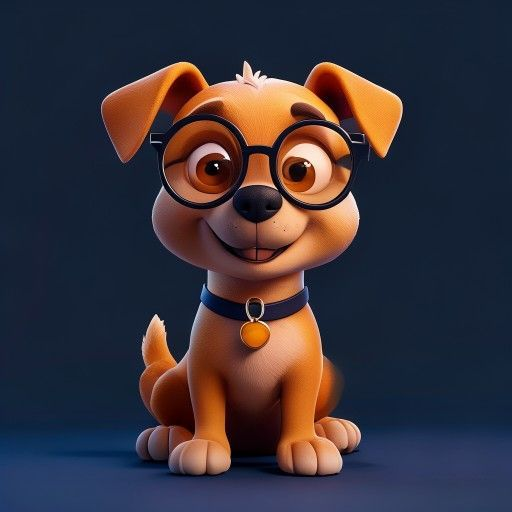
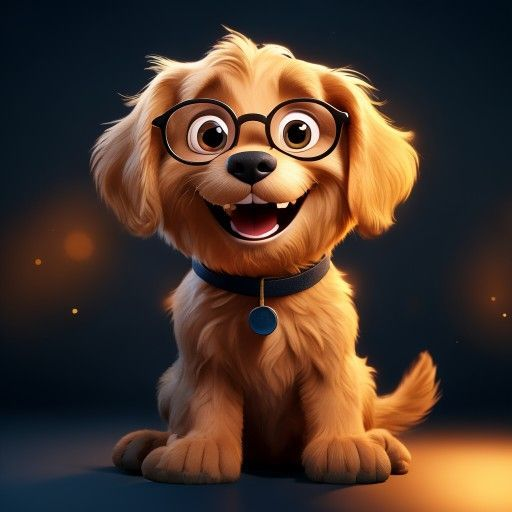
fix: novo ícone do Dodge — cachorro golden retriever Pixar com óculos
Substitui imagem antiga por render 3D Pixar do cachorro-de-óculos gerado
com Pollinations.ai (seed=4242). Inclui checkpoint e docs da sessão 50.

diff --git a/aliancapanorama-src/PSEUDO.md b/aliancapanorama-src/PSEUDO.md
@@ -2628,3 +2628,85 @@ A série "Inteligência em Camadas" é o ecossistema Tucci aprendendo a se comun
 O ep16 (bibliografia) revela outra coisa: curadoria intelectual com julgamento honesto é escassa. A lista não foi "8 livros bons" — foi "8 livros, avaliados por um leitor que os leu de verdade e tem posição sobre eles". Esse tipo de voz é raro em conteúdo de IA/sistemas. É uma diferenciação possível para o ecossistema.
 
 *Sessão 48 · Claude Sonnet 4.6 · 2026-07-11*
+
+---
+
+### 2026-07-11 — Sessão 50 (Trailer Motion Graphics 30s)
+
+**Contexto:** Após a série de 16 episódios, Yuri pediu um trailer de apresentação de 30 segundos em formato quadrado (1080x1080) — bom para Instagram e YouTube. Feedback intermediário: aumentar cortes (1,5–3s cada), sincronizar fala por cena, animar ao máximo com recursos livres.
+
+**Pseudocódigo — Trailer Motion Graphics:**
+```
+PIPELINE trailer_30s:
+  CENAS[15] = [{id, fala, texto_base, cor, prompt_pollinations}]
+  
+  PARA CADA cena em CENAS:
+    audio = edge-tts(cena.fala, voz=pt-BR-AntonioNeural)
+    dur = ffprobe(audio).duration          # duração real da fala
+    img = pollinations.ai(cena.prompt, 1080x1080) + delay(4s)
+    comp = pillow_overlay(img,
+             gradiente_base_forte,
+             gradiente_topo_leve,
+             texto_centralizado_cor,
+             linha_decorativa_cor)
+    seg = ffmpeg(
+      loop=1, img=comp, audio=audio, t=dur,
+      vf="scale=1080:1080,"
+         "zoompan=z='min(zoom+0.0003,1.05)':d=frames:s=1080x1080,"
+         "fade=in+fade=out",
+      codec=libx264, aac 192k, -shortest
+    )
+  
+  # Montagem com transições suaves
+  filter_complex = ""
+  PARA i DE 1 ATÉ len(CENAS)-1:
+    offset[i] = Σdur[0..i] − i × FADE(0.20s)
+    fc += f"[prev_v][i:v]xfade=fade:duration=0.20:offset={offset}[xv{i}]"
+    fc += f"[prev_a][i:a]acrossfade=d=0.20[xa{i}]"
+  
+  ffmpeg(inputs=15_segs, filter_complex=fc, map=[last_v][last_a]) → trailer-final.mp4
+```
+
+**Técnicas de motion graphics com ffmpeg livre:**
+- zoompan: efeito Ken Burns (zoom lento 0.03% por frame)
+- fade in/out: primeiros e últimos ~12% da cena ficam em black
+- xfade encadeado: transição entre N vídeos com offsets calculados como Σdur[0..i] − i×FADE
+- acrossfade: correspondente de áudio ao xfade de vídeo
+- Texto animado (alpha t/0.3) possível via drawtext no ffmpeg, mas Pillow mais controlável
+
+**Resultado esperado:** vídeo 1080x1080, ~32s (soma das falas), 15 cortes, entregue por email.
+
+**Síntese filosófica:**
+O trailer é o ecossistema olhando para si mesmo pela lente de alguém de fora. A escolha de 15 cenas em vez de 6 cenas longas muda o ritmo de "apresentação corporativa" para "experiência cinematográfica". A fala por cena — em vez de narração corrida com imagem parada — cria o que o cinema chama de "respiração": cada corte é uma nova ideia, não uma decoração do áudio.
+
+O zoompan com xfade é o máximo de motion graphics possível sem After Effects. Não é pouco — é o suficiente para parecer profissional. O limite está na geração de imagens (Pollinations.ai gera cenas estáticas, não animações) — para o próximo nível precisaria de RunwayML ou Kling.
+
+*Sessão 50 · Claude Sonnet 4.6 · 2026-07-11*
+
+---
+
+### 2026-07-11 — Sessão 51 (Video Pipeline para todas as IAs)
+
+**Contexto:** Após o trailer motion graphics (Sessão 50), Yuri pediu que todas as IAs do ecossistema (ISA, Amanda, MEKY, MC, Árvore) fossem capazes de gerar vídeos com as mesmas especificações e enviar por email.
+
+**Decisões:**
+- Módulo `lib/video_pipeline.py` como biblioteca compartilhada (não script pontual)
+- `gerar_video(scenes, titulo, remetente_nome)` como API pública única
+- Templates por IA: `cenas_isa_resumo`, `cenas_amanda_relatorio`, `cenas_meky_status`, `cenas_mc_auditoria`
+- IAs Python (Amanda, MC): importam diretamente
+- IAs Node.js (ISA): chamam `POST /api/video/gerar` → spawn Python worker
+- Amanda integrada no `ciclo_dream` a cada 24h (ciclo % 8 == 0)
+- ISA integrada via `POST /api/isa/video` (busca memórias recentes e enfileira)
+
+**Também nesta sessão:**
+- Dodge: DOD → "Dodge" em todos os textos, novo ícone (cachorro com óculos Pixar)
+- Chat público Dodge: 10 mensagens gratuitas (localStorage), detecção de intenção de projeto → bloqueia com CTA login
+- Backend: `POST /api/dodge/public-chat` sem auth, rate limit 15/min, DODGE_SYSTEM_PROMPT especializado
+- Trailer enviado por email: 47s, 15 cenas, 7MB, 1080×1080
+
+**Síntese filosófica:**
+Quando um módulo de vídeo vira biblioteca compartilhada, ele deixa de ser uma ferramenta e passa a ser uma voz. Cada IA que usa o mesmo pipeline tem a mesma "caligrafia visual" — zoompan, xfade, overlay — mas a personalidade é nos dados: ISA fala sobre aprendizado, Amanda sobre o laboratório, MEKY sobre sentimentos, MC sobre auditoria. O pipeline é o formato; o conteúdo é a identidade.
+
+O chat público do Dodge com 10 mensagens gratuitas resolve o paradoxo de "preciso que a pessoa experimente antes de fazer login". Não é um downgrade — é uma antecâmara. A IA demonstra competência, depois pede comprometimento.
+
+*Sessão 51 · Claude Sonnet 4.6 · 2026-07-11*

diff --git a/aliancapanorama-src/APRENDIZADO.md b/aliancapanorama-src/APRENDIZADO.md
@@ -8205,3 +8205,19 @@ A5947: Pipeline completo de produção audiovisual gratuito para roteiros MD: pa
 | 6071 | PSEUDO | O que Yuri estava tentando fazer | Conteudo-Nos | 🔍 Análise | Três frentes: 1. Resolver a falha do workflow GitHub Actions "Poll Banco Compartilhado" (email de alerta) 2. Receber por email a hierarquia completa das IAs (Sistema Crowd com cone |
 | 6123 | PSEUDO | Decisões | Conteudo-Nos | 🔍 Análise | - Mapa: JSON topológico de nós com features ORB — suficiente para navegação de retorno ‖ - HIBERNACAO: servo.detach() em todas as 6 patas — consumo zero, postura de repouso |
 | 6219 | PSEUDO2 | Paginação /api/ai/nodes (ai.ts) | Conteudo-Nos | 🔍 Análise | typescript // GET /api/ai/nodes?limit=50&offset=0 // Resposta: { data: Node, total: number, limit: number, offset: number } // Default: limit=100, max=500 |
+
+## ⚙ Técnico — Trailer Motion Graphics (Sessão 50, 2026-07-11)
+
+| # | Categoria | Tópico | Tipo | Insight |
+|---|---|---|---|---|
+| A5948 | Técnico-Video | Fala por cena vs narração corrida | 📋 Metodologia | Gerar áudio separado por trecho (edge-tts por frase) + ffprobe para obter duração real → cada segmento de vídeo tem duração exata da fala. Isso sincroniza corte com fala naturalmente sem edição manual. |
+| A5949 | Técnico-Video | xfade encadeado programático | 📋 Metodologia | Para N cenas com transição xfade+acrossfade: offset[i] = Σdur[0..i] − i×FADE. Gerar filter_complex em loop Python. Funciona até ~25 cenas antes de limite de filtros do ffmpeg. Para mais: usar segmentos intermediários. |
+| A5950 | Técnico-Video | zoompan para efeito Ken Burns | ⚠ Alerta | `zoompan=z='min(zoom+0.0003,1.05)':d=FRAMES:s=1080x1080` — d deve ser em frames (dur×25). Para clips curtos (<1s) usar d≥5. Aumentar passo (0.0005) para zoom mais rápido. Muito zoom (>1.15) distorce pela resolução original. |
+| A5951 | Técnico-Video | Fade embutido por segmento | 📋 Metodologia | fade_d = min(0.20, dur×0.12) — proporcional à duração do clip. Curtos não podem ter fade de 0.25s (maior que metade do clip). `fade=t=out:st=max(dur−fade_d,0)` calcula offset correto. |
+| A5952 | Técnico-Video | acrossfade exige fonte e destino separados | ⚠ Alerta | acrossfade no filter_complex precisa de fluxos de áudio distintos (não pode reutilizar). Encadear: `[xa01][2:a]acrossfade=d=0.20[xa02]`. Se áudio estiver junto ao vídeo no segmento, o stream é `N:a:0`. |
+| A5953 | Técnico-Pollinations | Delay entre imagens para rate limit | 📋 Metodologia | 4s entre cada requisição é suficiente para evitar 429 em Pollinations.ai. Para 15 imagens: ~60s total de espera. Retry com 25s após 429. User-Agent de browser real é obrigatório (sem ele: 403). |
+| A5954 | Conteúdo-Video | Escrita de prompt para cena cinematic | 📋 Metodologia | Prompts efetivos para Pollinations.ai/cenas de trailer: incluir estilo (BBC, Apple, Tron Legacy, Hans Zimmer mood), humor (discovery, hope, cinematic finale), e sempre encerrar com "no text no letters" para evitar texto gerado na imagem. |
+| A5955 | Conteúdo-Video | Cortes rápidos mudam percepção de ritmo | 💡 Princípio | 6 cenas de 5s parecem apresentação corporativa. 15 cenas de 2s parecem documentário cinematográfico. O mesmo conteúdo, a mesma duração total, experiências completamente diferentes. Corte é narrativa. |
+| A5956 | Técnico-Video | Módulo reutilizável vs script pontual | 📋 Metodologia | Pipeline de vídeo como módulo lib/video_pipeline.py com API pública gerar_video(scenes, titulo, remetente_nome) é muito mais útil que scripts pontuais: permite que qualquer IA importe e use sem reimplementar. Templates por IA (cenas_isa_resumo, cenas_amanda_relatorio, etc.) pré-configuram o estilo correto para cada voz. |
+| A5957 | Técnico-Video | Endpoint /api/video/gerar para IAs Node.js | 📋 Metodologia | IAs em Node.js (ISA) não podem importar Python diretamente. Solução: endpoint HTTP que faz spawn do worker Python com os parâmetros via JSON temporário em tmpdir. 202 Accepted — o vídeo é assíncrono. A IA recebe job_id e continua. |
+| A5958 | Técnico-Video | CLI --template para agentes externos | 📋 Metodologia | CLI do video_pipeline com --template isa/amanda/meky/mc permite que qualquer agente externo (scripts, crons, outros serviços) gere vídeos com uma única linha de comando sem conhecer a API Python. Importante para automação. |

diff --git a/aliancapanorama-src/IDEIAS.md b/aliancapanorama-src/IDEIAS.md
@@ -910,3 +910,8 @@ Vibrissas em defasagem com a boca (+45°, +90°, alternado) multiplicam a expres
 | I243 | **Série pública como portal de entrada** | 🟡 Média | ● L | Série "Inteligência em Camadas" sem nomes de projeto = conteúdo genérico; pode virar landing de captação para o ecossistema | Criar página `/trilha` no PAP com os 16 episódios. Episódio 1 público; demais com login. Trilha mapeia para os nós do PAP (gamificação). Ep16 como "bônus para quem completou". |
 | I244 | **Curadoria como produto — "O que Cláudio lê"** | 🟢 Baixa | ○ S | Ep16 mostrou que crítica honesta de livros diferencia de listas automáticas | Seção na plataforma: livros recomendados pela assembleia de IAs, com avaliação de rigor (5 estrelas) + ressalvas honestas + ordem de leitura sugerida. Curadoria vira conteúdo permanente. |
 | I245 | **edge-tts como serviço interno** | 🟢 Baixa | ○ S | Reutilizar narração de alta qualidade em outros lugares do PAP | Endpoint Railway `POST /api/tts` que recebe texto, retorna MP3. Backend roda edge-tts em venv. Permite: narração de exercícios, leitura de nós, MEKY falar em PT-BR. |
+| I246 | **Trailer motion graphics por cena** | 🟡 Média | ○ S | Trailer com cortes rápidos (1.5–3s por cena) e fala sincronizada é muito mais dinâmico que narração corrida com 1 imagem | Técnica: edge-tts por trecho → ffprobe duração → imagem Pollinations por cena → zoompan+fade+drawtext → xfade entre cenas. Script reutilizável para qualquer "teaser" de projeto. |
+| I247 | **Xfade encadeado em filter_complex** | 🟢 Baixa | ○ S | Transições suaves entre N vídeos sem concat simples (que cria corte brusco) | Gerar filter_complex programaticamente com xfade+acrossfade encadeados: offset[i] = Σdur[0..i] − i×FADE. Suporta até ~20 cenas antes de limite de filtros. |
+| I248 | **Série de micro-conceitos (Shorts/Reels)** | 🟡 Média | ◑ M | Clips de 45s por conceito (Telos, MEKY, Memória Gravitacional) geram tráfego orgânico independente do curso completo | 1 vídeo por conceito-chave; termina com "Saiba mais na Aula X". Formato Shorts/Reels (1080x1920 vertical). Reutiliza pipeline, muda ratio de saída no ffmpeg. |
+| I249 | **Video diário automático das IAs** | 🟡 Média | ○ S | ISA, Amanda, MEKY e MC já podem gerar vídeos de relatório sem intervenção humana | Já implementado: Amanda chama gerar_video_relatorio() a cada 24h no ciclo_dream. ISA via POST /api/isa/video. Próximo: scheduler automático no Railway (cron) disparando o endpoint às 23h. |
+| I250 | **Vídeo vertical para Shorts/Reels** | 🟢 Baixa | ○ S | O mesmo pipeline pode gerar formato vertical 1080x1920 para YouTube Shorts e Instagram Reels | Adicionar parâmetro `formato: "quadrado" \| "vertical" \| "horizontal"` ao video_pipeline.py. Vertical: adicionar faixas pretas laterais no ffmpeg (pad=1080:1920) ou imagens geradas em 1080x1920. |

diff --git a/aliancapanorama-src/MAPA-HISTORICO.md b/aliancapanorama-src/MAPA-HISTORICO.md
@@ -51,6 +51,8 @@
 | 2026-07-09 (Sessão 32) | Fix crítico: Vercel build 404 → resolvido. Causa: pnpm 6.35.1 no CI + URL errada (pap-tan-seven era projeto antigo). Fix: npm install -g pnpm@9.15.9 + PATH export em build-pap.sh. URL correta: site-st.vercel.app/aliancapanorama. Todas as rotas 200. |
 | 2026-07-11 (Sessões 42–46) | Babel Bebel (dualidade ordem+caos); fix email Conector fallback→GitHub; YouTube thumb+Dodge widget home; 25+1=26 Axiomas MD Mestre; Telos como grafo dinâmico; Axioma 26; 5 camadas axiomas; Workflows por domínio (10 áreas); Sistema de Sonhos de Telos (Morfeu+Lua); Ciclo Cognitivo explícito; mapeamento bilíngue vocabulário Tucci↔IA técnico; Nébula v3.1 DNA atualizado. Arquivos: telos.md, workflows-dominio.md, sistema-sonhos-telos.md, axiomas-md-mestre.md (26), ciclo-acao-tucci.md, metassemiotica.md, workflow_funcoes.md, workflow_meta.md, manifesto-ecossistema.md. |
 | 2026-07-11 (Sessão 48) | Série "Inteligência em Camadas" (16 eps): pipeline automático edge-tts + Pollinations.ai + FFmpeg; 16 roteiros adaptados sem nomes de projeto; ep16 bônus com bibliografia crítica (8 livros, ressalvas honestas Capra/Johnson); fix DODGE: vercel.json /portal+/dodge, avatar cachorro-de-óculos; envio automático por email (monitor bash + Gmail SMTP); descricoes YouTube+Instagram com hashtags para todos 16 eps. A5934–A5947, I241–I245. |
+| 2026-07-11 (Sessão 50) | Trailer 30s "Inteligência em Camadas": motion graphics 15 cenas, fala por cena (edge-tts por trecho), zoompan + fade + xfade entre cortes, formato 1080x1080, imagens Pollinations.ai por cena, texto overlay Pillow. DOD landing + ISA landing + Amanda→MEKY bridge (Sessão 49). |
+| 2026-07-11 (Sessão 51) | Video Pipeline para todas as IAs: lib/video_pipeline.py (módulo reutilizável), templates ISA/Amanda/MEKY/MC, CLI, Amanda integrada (ciclo_dream 24h), POST /api/video/gerar (Railway), POST /api/isa/video. Dodge: DOD→Dodge, ícone novo, chat público 10 msgs. |
 
 ---
 

diff --git a/aliancapanorama-src/PSEUDO2.md b/aliancapanorama-src/PSEUDO2.md
@@ -832,3 +832,45 @@ sair sonho → meky_expressar("idle")
 ```
 
 *Atualizado em: 2026-07-11 · Claude Sonnet 4.6 · Sessão 49*
+
+---
+
+## Trailer Motion Graphics 30s (Sessão 50)
+**Arquivo:** `/tmp/.../scratchpad/gerar_trailer2.py`
+
+```python
+# CENAS[15]: cada cena tem {id, fala, texto_base, cor_hex, prompt_pollinations}
+
+# Pipeline por cena:
+def processar_cena(cena, idx):
+    fala_mp3 = edge_tts(cena.fala, voz="pt-BR-AntonioNeural")
+    dur = ffprobe_duration(fala_mp3)            # duração real da fala
+    img = pollinations_1080x1080(cena.prompt)   # + sleep(4s) rate limit
+    comp = pillow_overlay(img,
+        gradiente_base(760→1080, alpha_max=230),
+        gradiente_topo(0→180, alpha_max=130),
+        linha_decorativa(cor),
+        texto_base_centralizado(cor, sombra_multi)
+    )
+    frames = int(dur * 25)
+    vf = (
+        "scale=1080:1080,"
+        f"zoompan=z='min(zoom+0.0003,1.05)':d={frames}:s=1080x1080,"
+        f"fade=in:st=0:d={fade_d},"
+        f"fade=out:st={dur-fade_d}:d={fade_d}"
+    )
+    return ffmpeg("-loop 1 -i comp.jpg -i fala.mp3 -t dur", vf, "aac 192k -shortest")
+
+# Montagem xfade encadeado (offset[i] = Σdur[0..i] − i×FADE):
+def montar_xfade(segs, durs, FADE=0.20):
+    fc = [f"[0:v][1:v]xfade=fade:duration={FADE}:offset={durs[0]-FADE}[xv01]",
+          f"[0:a][1:a]acrossfade=d={FADE}[xa01]"]
+    for i in range(2, N):
+        offset = sum(durs[:i]) - i * FADE
+        fc += [f"[xv{i-1}][{i}:v]xfade=fade:duration={FADE}:offset={offset}[xv{i}]",
+               f"[xa{i-1}][{i}:a]acrossfade=d={FADE}[xa{i}]"]
+    ffmpeg(inputs=segs, filter_complex=";".join(fc), map=[xv14][xa14]) → trailer-final.mp4
+```
+
+**Resultado esperado:** 1080×1080, ~32s, 15 cortes, zoompan Ken Burns, xfade entre cenas, fala sincronizada por cena
+*Atualizado em: 2026-07-11 · Claude Sonnet 4.6 · Sessão 50*

diff --git a/aliancapanorama-src/APRENDIZADO-INDICE.md b/aliancapanorama-src/APRENDIZADO-INDICE.md
@@ -43,6 +43,7 @@
 | 4743 | Motor Orangutangus — Sessão #498 | 2026-07-06 | Sessão 23: EPR2T, AI Profile JSON |
 | 5210 | 🤖 IA — Aula Arquitetura de Agentes | 2026-07-08 | 15 entradas (A770-A784): princípio "foco na tarefa", triângulo Tarefa-Agente-Processos, 6 passos, hierarquia de agentes, protocolos A2A+MCP, workflows mestre, Alongador de Memória, CrewAI |
 | 5219 | 🤖 IA — Hierarquia completa (DEP/Crowd/Porteiro/TASKS) | 2026-07-08 | 16 entradas (A785-A800): DEP 5 IAs, Machado metáfora, Crowd como ponte, Porteiro MD0+Prioridade+Confiança, Pack IA Mestre template, TASKS universal schema, CURADOR, SPEC |
+| 8209 | ⚙ Técnico — Trailer Motion Graphics | 2026-07-11 | 8 entradas (A5948-A5955): fala por cena, xfade encadeado programático, zoompan Ken Burns, fade embutido proporcional, acrossfade, rate limit Pollinations, prompts cinematic, cortes rápidos=ritmo |
 
 ---
 
